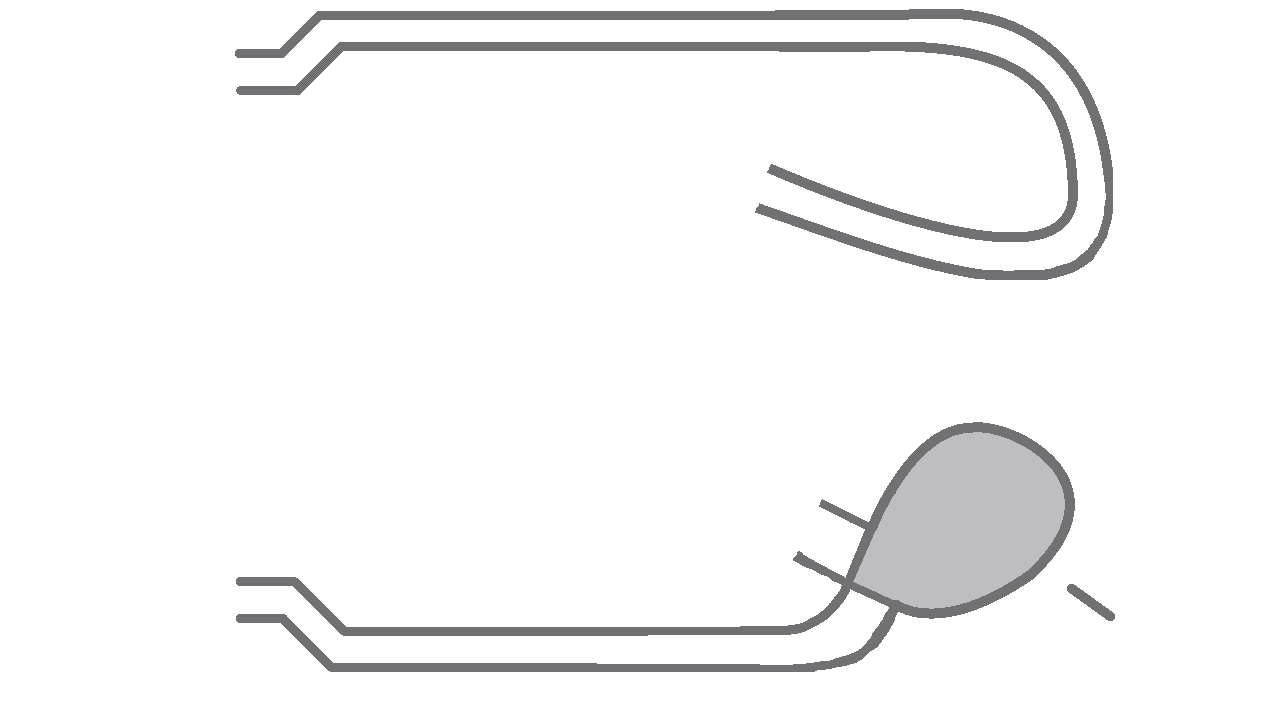
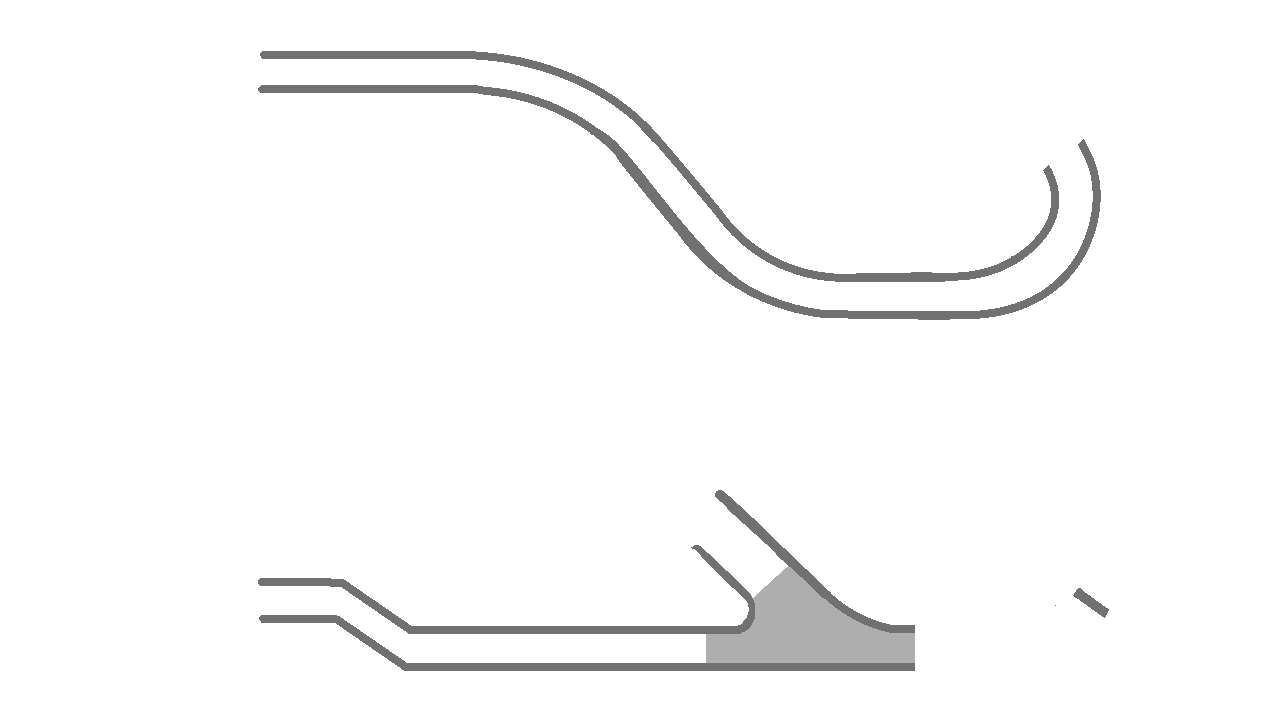
better table layout and graphics

diff --git a/games/pinball/source/layer.h b/games/pinball/source/layer.h
@@ -22,17 +22,17 @@ class Layer {
         int m_layerID;
 
         // Launch tube layer
-        vector<float> m_tubeLeft = {0.0, 527.8, 0.0, 672.0, 463.8, 671.7, 927.5, 671.4, 939.0, 669.7, 950.5, 667.9, 962.0, 665.4, 973.5, 662.8, 985.5, 658.8, 997.5, 654.8, 1009.0, 649.4, 1020.4, 643.9, 1031.5, 636.6, 1042.5, 629.2, 1051.3, 621.0, 1060.1, 612.7, 1066.3, 604.6, 1072.6, 596.5, 1075.3, 592.3, 1078.0, 588.0, 1074.6, 584.6, 1071.2, 583.0, 1070.2, 583.0, 1069.2, 583.0, 1066.9, 586.7, 1064.6, 590.5, 1058.4, 598.6, 1052.1, 606.8, 1044.3, 614.0, 1036.5, 621.2, 1026.1, 628.1, 1015.8, 635.1, 1005.4, 640.0, 995.1, 645.0, 981.8, 649.4, 968.5, 653.8, 955.5, 656.5, 942.5, 659.2, 933.4, 659.7, 924.3, 660.3, 918.4, 658.5, 912.5, 656.8, 909.5, 655.7, 906.5, 654.7, 900.9, 651.3, 895.2, 648.0, 888.6, 644.8, 883.5, 641.6, 877.5, 638.4, 871.5, 635.3, 864.0, 631.3, 856.5, 627.3, 851.5, 624.1, 846.6, 621.0, 837.6, 616.5, 830.3, 612.0, 823.6, 608.8, 818.5, 605.7, 809.3, 600.8, 800.1, 596.0, 797.1, 596.0, 794.1, 596.0, 791.6, 598.3, 789.0, 600.5, 786.0, 604.5, 783.0, 608.5, 778.0, 615.5, 772.9, 622.5, 767.0, 630.5, 761.0, 638.5, 757.4, 643.7, 753.7, 649.0, 752.2, 649.0, 750.7, 649.0, 740.6, 642.7, 730.5, 636.3, 725.5, 633.8, 720.5, 631.3, 711.6, 625.6, 702.6, 620.0, 689.6, 613.0, 678.4, 606.0, 675.7, 606.0, 673.1, 606.0, 670.5, 607.2, 667.9, 608.4, 654.9, 623.6, 642.0, 638.9, 635.8, 644.4, 629.6, 650.0, 623.1, 651.9, 616.5, 653.8, 611.2, 654.9, 605.9, 656.0, 562.2, 656.0, 518.5, 656.0, 502.8, 654.5, 487.0, 653.1, 480.3, 651.9, 473.5, 650.8, 468.0, 647.7, 462.5, 644.7, 455.8, 639.4, 449.2, 634.0, 446.1, 627.3, 443.0, 620.5, 442.1, 619.0, 441.3, 617.5, 408.4, 617.2, 375.5, 617.0, 356.0, 636.5, 336.5, 656.0, 181.8, 656.0, 27.0, 656.0, 27.0, 638.5, 27.0, 621.0, 55.4, 620.8, 83.7, 620.5, 42.4, 502.6, 1.1, 384.7, 0.5, 384.2, -3.32511795875e-13, 383.7, -3.32511795875e-13, 527.8};
-        vector<float> m_tubeRight = {0.1, 144.2, 0.2, 288.5, 1.5, 285.5, 2.8, 282.5, 42.3, 168.5, 81.8, 54.5, 82.5, 52.7, 83.2, 51.0, 55.1, 51.0, 27.0, 51.0, 27.0, 33.5, 27.0, 16.0, 182.0, 16.0, 337.0, 16.0, 358.0, 37.0, 379.0, 58.0, 391.0, 69.0, 401.9, 80.0, 452.7, 80.0, 503.5, 80.0, 511.0, 76.2, 518.5, 72.4, 529.6, 65.8, 540.7, 59.2, 565.1, 47.2, 589.5, 35.2, 596.0, 32.2, 602.5, 29.2, 615.0, 25.2, 627.5, 21.2, 635.0, 20.0, 642.5, 18.9, 647.0, 17.8, 651.5, 16.6, 801.5, 16.3, 951.5, 15.9, 962.5, 17.0, 973.5, 18.1, 984.5, 20.5, 995.5, 22.8, 1005.0, 26.0, 1014.5, 29.1, 1026.9, 35.1, 1039.2, 41.0, 1048.9, 47.3, 1058.5, 53.6, 1067.5, 61.2, 1076.5, 68.7, 1082.5, 75.1, 1088.6, 81.5, 1094.2, 88.5, 1099.8, 95.5, 1105.4, 104.2, 1111.1, 112.9, 1117.0, 125.2, 1122.9, 137.5, 1126.0, 147.0, 1129.2, 156.5, 1131.6, 167.8, 1134.0, 179.0, 1135.6, 194.8, 1137.1, 210.5, 1136.5, 366.0, 1135.9, 521.5, 1134.9, 531.0, 1134.0, 540.5, 1131.9, 550.9, 1129.8, 561.3, 1126.3, 571.9, 1122.9, 582.5, 1117.0, 594.8, 1111.1, 607.1, 1105.4, 615.8, 1099.8, 624.5, 1094.2, 631.5, 1088.6, 638.5, 1082.5, 644.9, 1076.5, 651.3, 1067.5, 658.8, 1058.5, 666.4, 1048.9, 672.7, 1039.2, 679.0, 1026.9, 684.9, 1014.5, 690.9, 1003.9, 694.3, 993.3, 697.8, 982.9, 699.9, 972.5, 702.0, 963.5, 703.0, 954.5, 704.0, 477.3, 704.0, 3.41060513165e-13, 704.0, 3.41060513165e-13, 712.0, 3.41060513165e-13, 720.0, 576.0, 720.0, 1152.0, 720.0, 1152.0, 360.0, 1152.0, 0.0, 576.0, 0.0, 4.54747350886e-13, 0.0, 0.1, 144.2};
+        vector<float> m_tubeLeft = {0.0, 527.8, 0.0, 672.0, 463.8, 671.7, 927.5, 671.4, 939.0, 669.7, 950.5, 667.9, 962.0, 665.4, 973.5, 662.8, 985.5, 658.8, 997.5, 654.8, 1009.0, 649.4, 1020.4, 643.9, 1031.5, 636.6, 1042.5, 629.2, 1051.3, 621.0, 1060.1, 612.7, 1066.3, 604.6, 1072.6, 596.5, 1075.3, 592.3, 1078.0, 588.0, 1074.6, 584.6, 1071.2, 583.0, 1070.2, 583.0, 1069.2, 583.0, 1066.9, 586.7, 1064.6, 590.5, 1058.4, 598.6, 1052.1, 606.8, 1044.3, 614.0, 1036.5, 621.2, 1026.1, 628.1, 1015.8, 635.1, 1005.4, 640.0, 995.1, 645.0, 981.8, 649.4, 968.5, 653.8, 955.9, 656.4, 943.3, 659.0, 940.6, 659.0, 938.0, 659.0, 938.0, 660.0, 938.0, 661.0, 926.5, 661.0, 915.0, 661.0, 915.0, 645.5, 915.0, 630.0, 920.3, 630.0, 925.6, 630.0, 935.1, 628.4, 944.5, 626.8, 954.0, 623.8, 963.5, 620.8, 973.7, 616.0, 983.9, 611.2, 992.7, 605.4, 1001.5, 599.7, 1007.5, 595.2, 1013.5, 590.6, 1025.3, 579.1, 1037.0, 567.7, 1037.0, 566.6, 1037.0, 565.5, 1018.1, 547.2, 999.1, 529.0, 994.3, 534.7, 989.5, 540.5, 983.5, 546.5, 977.5, 552.6, 942.0, 584.0, 906.5, 615.4, 896.5, 621.8, 886.5, 628.1, 868.5, 637.0, 850.5, 645.9, 840.5, 649.6, 830.5, 653.3, 819.0, 656.9, 807.5, 660.5, 706.2, 660.8, 604.9, 661.0, 589.0, 658.6, 573.0, 656.1, 561.3, 653.4, 549.5, 650.8, 538.0, 647.3, 526.5, 643.9, 519.0, 640.5, 511.5, 637.2, 496.0, 630.2, 480.5, 623.2, 470.5, 619.9, 460.5, 616.5, 418.3, 616.5, 376.0, 616.5, 356.3, 636.2, 336.5, 656.0, 181.7, 656.0, 27.0, 656.0, 27.0, 638.5, 27.0, 621.0, 55.4, 620.8, 83.7, 620.5, 42.4, 502.6, 1.1, 384.7, 0.5, 384.2, 2.35922392733e-13, 383.7, 2.35922392733e-13, 527.8};
+        vector<float> m_tubeRight = {0.1, 144.2, 0.2, 288.5, 1.5, 285.5, 2.8, 282.5, 42.3, 168.5, 81.8, 54.5, 82.5, 52.7, 83.2, 51.0, 55.1, 51.0, 27.0, 51.0, 27.0, 33.5, 27.0, 16.0, 182.0, 16.0, 337.0, 16.0, 337.0, 17.0, 337.0, 18.0, 364.0, 45.0, 391.0, 72.0, 397.9, 72.0, 404.9, 72.0, 411.2, 68.6, 417.5, 65.2, 429.5, 58.6, 441.5, 52.0, 456.5, 45.6, 471.5, 39.2, 485.0, 34.7, 498.5, 30.2, 513.0, 26.6, 527.5, 23.0, 540.6, 21.0, 553.6, 19.0, 567.6, 18.0, 581.5, 17.0, 603.3, 17.0, 625.0, 17.0, 625.0, 33.4, 625.0, 49.9, 623.3, 50.4, 621.5, 50.9, 614.0, 52.5, 606.5, 54.1, 603.5, 55.7, 600.5, 57.3, 598.0, 58.6, 595.5, 59.9, 588.1, 66.8, 580.6, 73.6, 584.7, 79.5, 588.8, 85.5, 591.9, 88.7, 594.9, 92.0, 596.5, 92.0, 598.1, 92.0, 615.3, 83.4, 632.5, 74.7, 645.5, 67.0, 658.5, 59.3, 683.0, 47.2, 707.5, 35.2, 714.0, 32.2, 720.5, 29.2, 733.0, 25.2, 745.5, 21.2, 753.0, 20.0, 760.5, 18.9, 765.0, 17.8, 769.5, 16.7, 860.5, 16.3, 951.5, 15.9, 962.5, 17.0, 973.5, 18.1, 984.5, 20.5, 995.5, 22.8, 1005.0, 26.0, 1014.5, 29.1, 1026.9, 35.1, 1039.2, 41.0, 1048.9, 47.3, 1058.5, 53.6, 1067.5, 61.2, 1076.5, 68.7, 1082.5, 75.1, 1088.6, 81.5, 1094.2, 88.5, 1099.8, 95.5, 1105.4, 104.2, 1111.1, 112.9, 1117.0, 125.2, 1122.9, 137.5, 1126.0, 147.0, 1129.2, 156.5, 1131.6, 167.8, 1134.0, 179.0, 1135.6, 194.8, 1137.1, 210.5, 1136.5, 366.0, 1135.9, 521.5, 1134.9, 531.0, 1134.0, 540.5, 1131.9, 550.9, 1129.8, 561.3, 1126.3, 571.9, 1122.9, 582.5, 1117.0, 594.8, 1111.1, 607.1, 1105.4, 615.8, 1099.8, 624.5, 1094.2, 631.5, 1088.6, 638.5, 1082.5, 644.9, 1076.5, 651.3, 1067.5, 658.8, 1058.5, 666.4, 1048.9, 672.7, 1039.2, 679.0, 1026.9, 684.9, 1014.5, 690.9, 1003.9, 694.3, 993.3, 697.8, 982.9, 699.9, 972.5, 702.0, 963.5, 703.0, 954.5, 704.0, 477.3, 704.0, 5.68434188608e-13, 704.0, 5.68434188608e-13, 712.0, 5.68434188608e-13, 720.0, 576.0, 720.0, 1152.0, 720.0, 1152.0, 360.0, 1152.0, -1.13686837722e-13, 576.0, -1.13686837722e-13, 4.54747350886e-13, -1.13686837722e-13, 0.1, 144.2};
         vector<vector<float>> m_launchTubeLayer = {
             m_tubeLeft, m_tubeRight
         };
 
         // Main table layer
         vector<float> m_launchExitLock = {1068.0, 585.4, 1066.8, 586.9, 1067.2, 589.2, 1067.5, 591.5, 1087.9, 606.2, 1108.4, 621.0, 1110.6, 621.0, 1112.8, 621.0, 1114.0, 619.6, 1115.2, 618.1, 1114.8, 615.8, 1114.5, 613.5, 1094.1, 598.8, 1073.6, 584.0, 1071.4, 584.0, 1069.2, 584.0, 1068.0, 585.4};
-        vector<float> m_upperWall = {759.0, 53.1, 749.5, 53.9, 741.5, 55.0, 733.5, 56.0, 724.0, 57.6, 714.5, 59.1, 707.5, 60.6, 700.5, 62.1, 696.5, 63.0, 692.5, 63.9, 683.0, 65.5, 673.5, 67.2, 667.0, 69.2, 660.5, 71.1, 649.5, 74.6, 638.5, 78.2, 634.0, 80.2, 629.5, 82.2, 607.3, 93.1, 585.2, 104.0, 584.2, 104.0, 580.9, 105.8, 578.5, 107.7, 574.0, 110.0, 569.5, 112.4, 564.4, 115.7, 559.2, 119.0, 558.6, 120.6, 558.0, 122.2, 558.0, 125.4, 558.0, 128.6, 560.8, 133.1, 563.6, 137.5, 567.0, 145.0, 570.4, 152.5, 573.7, 158.2, 577.1, 164.0, 579.5, 164.6, 581.9, 165.2, 588.2, 161.7, 594.5, 158.2, 601.5, 154.8, 608.5, 151.3, 611.0, 150.1, 613.5, 149.0, 616.6, 147.0, 619.7, 145.0, 629.1, 143.5, 638.5, 142.0, 646.4, 140.9, 654.2, 139.8, 669.9, 140.3, 685.5, 140.7, 694.4, 142.4, 703.3, 144.2, 718.9, 149.4, 734.5, 154.7, 740.0, 157.5, 745.5, 160.3, 750.5, 163.6, 755.5, 166.8, 762.0, 170.4, 768.5, 174.0, 775.5, 177.5, 782.5, 181.0, 783.9, 183.1, 785.2, 185.3, 783.5, 188.9, 781.7, 192.5, 779.6, 197.0, 777.5, 201.5, 775.6, 204.1, 773.8, 206.8, 767.1, 204.9, 760.5, 202.9, 749.1, 200.0, 737.8, 197.0, 723.6, 197.1, 709.5, 197.1, 703.0, 198.0, 696.5, 198.9, 688.1, 201.3, 679.7, 203.6, 673.5, 208.7, 667.3, 213.8, 661.2, 220.9, 655.1, 227.9, 650.1, 235.3, 645.1, 242.8, 640.1, 252.2, 635.0, 261.7, 635.0, 264.6, 635.0, 267.5, 661.3, 301.5, 687.5, 335.5, 690.7, 335.8, 693.9, 336.1, 710.8, 327.6, 727.7, 319.0, 738.2, 308.2, 748.6, 297.4, 753.5, 290.4, 758.3, 283.5, 764.4, 275.0, 770.5, 266.5, 778.3, 251.0, 786.2, 235.5, 794.0, 214.5, 801.8, 193.5, 802.5, 191.0, 803.2, 188.5, 809.5, 175.0, 815.8, 161.5, 817.3, 158.0, 818.8, 154.5, 820.9, 148.0, 823.0, 141.5, 825.7, 134.5, 828.3, 127.5, 830.0, 125.0, 831.7, 122.5, 833.0, 118.5, 834.3, 114.5, 837.3, 108.0, 840.3, 101.5, 842.8, 98.0, 845.4, 94.5, 851.7, 87.4, 858.0, 80.2, 865.5, 75.1, 873.0, 70.0, 880.8, 66.8, 888.5, 63.6, 922.3, 63.2, 956.1, 62.9, 967.1, 64.4, 978.0, 65.9, 985.2, 68.1, 992.5, 70.3, 993.5, 71.0, 994.5, 71.7, 1002.2, 74.3, 1009.8, 77.0, 1015.7, 79.8, 1021.5, 82.5, 1029.1, 88.3, 1036.7, 94.0, 1040.7, 97.9, 1044.7, 101.7, 1049.4, 108.9, 1054.0, 116.1, 1054.0, 117.3, 1054.0, 118.5, 1056.1, 121.9, 1058.2, 125.3, 1059.5, 131.4, 1060.8, 137.5, 1061.5, 139.2, 1062.2, 141.0, 1064.4, 141.0, 1066.6, 141.0, 1068.5, 139.6, 1070.4, 138.3, 1069.1, 132.4, 1067.8, 126.5, 1064.7, 119.1, 1061.7, 111.7, 1056.9, 104.6, 1052.2, 97.5, 1044.3, 89.9, 1036.5, 82.3, 1030.5, 78.3, 1024.5, 74.3, 1016.4, 70.2, 1008.3, 66.2, 997.8, 62.6, 987.2, 59.1, 977.4, 57.1, 967.5, 55.1, 959.5, 53.9, 951.5, 52.7, 860.0, 52.5, 768.5, 52.2, 759.0, 53.1};
-        vector<float> m_upperWall2 = {693.8, 440.5, 692.7, 443.1, 693.6, 443.9, 694.5, 444.7, 722.5, 459.0, 750.5, 473.3, 751.5, 474.0, 752.5, 474.7, 779.5, 488.5, 806.5, 502.3, 809.7, 504.9, 812.9, 507.5, 814.1, 510.3, 815.3, 513.1, 814.6, 517.7, 814.0, 522.4, 813.1, 522.9, 812.2, 523.5, 811.5, 527.3, 810.7, 531.2, 809.5, 531.6, 808.2, 532.1, 807.6, 535.6, 806.9, 539.0, 805.5, 539.0, 804.1, 539.0, 803.5, 540.8, 803.0, 542.7, 800.2, 544.0, 797.5, 545.4, 794.3, 545.7, 791.0, 546.1, 773.5, 537.1, 756.0, 528.0, 754.8, 528.0, 753.5, 527.9, 749.6, 525.0, 745.6, 522.0, 743.9, 522.0, 742.2, 522.0, 741.0, 520.5, 739.8, 519.0, 738.7, 519.0, 737.7, 519.0, 732.8, 516.0, 728.0, 513.0, 726.9, 513.0, 725.9, 513.0, 724.7, 511.9, 723.5, 510.8, 707.5, 502.4, 691.5, 494.0, 681.2, 488.7, 670.9, 483.5, 669.4, 485.5, 667.9, 487.5, 668.2, 490.0, 668.5, 492.5, 698.0, 508.3, 727.5, 524.1, 762.0, 542.5, 796.5, 561.0, 807.5, 564.9, 818.5, 568.8, 837.5, 579.0, 856.5, 589.2, 874.0, 598.6, 891.5, 607.9, 901.3, 612.0, 911.1, 616.1, 918.8, 618.2, 926.5, 620.3, 939.5, 620.3, 952.5, 620.3, 962.0, 617.7, 971.5, 615.2, 980.1, 611.6, 988.6, 608.0, 999.6, 601.9, 1010.5, 595.8, 1020.5, 589.2, 1030.5, 582.5, 1040.8, 572.6, 1051.1, 562.6, 1055.3, 555.6, 1059.4, 548.5, 1061.3, 544.7, 1063.1, 540.9, 1068.1, 526.2, 1073.0, 511.5, 1073.7, 501.4, 1074.3, 491.3, 1073.6, 488.6, 1073.0, 486.0, 1071.0, 486.0, 1069.0, 486.0, 1068.0, 488.6, 1067.0, 491.1, 1067.0, 495.3, 1067.0, 499.5, 1064.6, 509.5, 1062.1, 519.5, 1060.1, 525.4, 1058.0, 531.3, 1057.1, 532.4, 1056.3, 533.5, 1054.8, 538.1, 1053.2, 542.6, 1049.9, 547.4, 1046.5, 552.1, 1042.5, 557.3, 1038.4, 562.5, 1030.0, 568.8, 1021.5, 575.2, 1016.5, 579.4, 1011.5, 583.6, 1007.9, 585.8, 1004.3, 588.0, 1002.9, 588.0, 1001.5, 588.0, 998.0, 590.8, 994.5, 593.7, 991.2, 594.8, 987.9, 595.9, 985.2, 597.8, 982.5, 599.7, 979.0, 601.0, 975.5, 602.3, 974.0, 603.6, 972.5, 604.9, 964.5, 607.1, 956.5, 609.2, 952.0, 610.1, 947.5, 611.0, 940.5, 611.2, 933.5, 611.4, 927.5, 609.8, 921.5, 608.2, 910.5, 604.2, 899.5, 600.3, 896.8, 599.2, 894.1, 598.1, 887.3, 593.3, 880.5, 588.6, 878.0, 586.3, 875.5, 584.0, 865.7, 576.1, 857.4, 568.1, 853.3, 560.8, 849.2, 553.5, 845.7, 543.0, 842.3, 532.5, 838.5, 520.5, 834.8, 508.5, 833.4, 506.2, 831.9, 504.0, 766.0, 471.0, 700.0, 438.0, 697.5, 438.0, 695.0, 438.0, 693.8, 440.5};
-        vector<float> m_upperWall3 = {968.9, 374.8, 966.3, 376.5, 931.2, 404.4, 896.0, 432.3, 895.5, 434.1, 894.9, 435.9, 896.0, 438.0, 897.1, 440.0, 899.3, 440.5, 901.5, 441.1, 951.9, 433.0, 1002.2, 425.0, 1004.4, 423.4, 1006.0, 421.9, 1006.0, 420.4, 1006.0, 419.0, 991.4, 397.2, 976.8, 375.5, 975.2, 374.2, 973.6, 373.0, 972.6, 373.0, 971.5, 373.0, 968.9, 374.8};
+        vector<float> m_upperWall = {786.0, 60.6, 777.5, 62.1, 765.8, 66.0, 754.2, 69.9, 744.5, 74.6, 734.9, 79.2, 723.2, 87.1, 711.5, 95.0, 708.1, 98.0, 704.6, 101.0, 707.4, 103.9, 710.3, 106.9, 714.7, 103.1, 719.0, 99.2, 727.8, 93.4, 736.5, 87.6, 746.8, 82.4, 757.1, 77.2, 767.8, 73.7, 778.5, 70.1, 788.0, 68.5, 797.5, 66.9, 881.5, 67.3, 965.5, 67.6, 977.6, 70.3, 989.7, 73.0, 998.6, 76.1, 1007.5, 79.2, 1015.7, 83.1, 1023.8, 87.0, 1032.7, 92.9, 1041.6, 98.9, 1048.7, 105.4, 1055.7, 111.9, 1061.3, 118.8, 1067.0, 125.7, 1068.8, 129.0, 1070.5, 130.9, 1072.4, 134.5, 1074.4, 138.1, 1073.4, 138.8, 1072.4, 139.5, 1064.4, 145.6, 1056.5, 151.7, 1050.7, 155.5, 1045.0, 159.3, 1039.7, 152.0, 1035.1, 145.5, 1031.3, 141.5, 1027.4, 137.5, 1021.3, 132.0, 1015.2, 126.5, 1007.3, 121.8, 999.4, 117.1, 991.6, 114.0, 983.9, 110.9, 976.4, 109.0, 968.9, 107.1, 958.9, 106.0, 948.8, 105.0, 920.1, 105.0, 891.4, 105.0, 883.2, 106.0, 875.0, 107.1, 866.3, 109.6, 857.5, 112.1, 849.2, 116.0, 840.8, 120.0, 833.7, 124.7, 826.6, 129.5, 817.8, 137.9, 809.0, 146.3, 804.0, 152.5, 799.1, 158.7, 794.5, 166.0, 790.0, 173.4, 790.0, 175.2, 790.0, 177.0, 792.6, 178.2, 795.3, 179.4, 796.6, 177.5, 798.0, 175.5, 803.9, 166.5, 809.8, 157.5, 817.5, 149.3, 825.1, 141.1, 833.1, 135.1, 841.1, 129.1, 851.3, 124.0, 861.5, 119.0, 871.5, 116.3, 881.5, 113.7, 914.0, 113.2, 946.5, 112.8, 957.1, 113.9, 967.8, 115.0, 975.6, 117.1, 983.5, 119.1, 991.1, 122.4, 998.7, 125.7, 1005.7, 130.3, 1012.7, 134.8, 1019.8, 141.4, 1026.8, 148.0, 1030.8, 153.3, 1034.9, 158.5, 1038.2, 164.1, 1041.6, 169.8, 1044.8, 168.5, 1047.9, 167.1, 1054.2, 162.9, 1060.5, 158.7, 1072.3, 149.7, 1084.0, 140.7, 1084.0, 139.5, 1084.0, 138.3, 1079.1, 130.2, 1074.3, 122.1, 1069.2, 115.8, 1064.2, 109.5, 1055.4, 101.0, 1046.5, 92.4, 1037.5, 86.4, 1028.5, 80.4, 1020.0, 76.3, 1011.5, 72.2, 1001.1, 68.6, 990.6, 64.9, 978.6, 62.3, 966.5, 59.6, 880.5, 59.4, 794.5, 59.1, 786.0, 60.6};
+        vector<float> m_upperWall2 = {764.0, 450.1, 735.5, 476.1, 725.8, 485.1, 716.0, 494.2, 716.0, 495.4, 716.0, 496.7, 767.3, 545.2, 818.5, 593.6, 819.9, 596.3, 821.3, 598.9, 820.0, 600.5, 818.8, 602.0, 817.3, 602.0, 815.8, 602.0, 813.2, 603.9, 810.5, 605.7, 800.5, 608.8, 790.5, 612.0, 780.8, 613.0, 771.1, 614.0, 763.0, 614.0, 755.0, 614.0, 755.0, 609.0, 755.0, 603.9, 753.5, 600.5, 752.1, 597.0, 750.5, 596.4, 748.9, 595.7, 745.5, 591.3, 742.1, 586.9, 720.6, 565.9, 699.1, 545.0, 696.8, 545.0, 694.5, 545.0, 680.7, 556.1, 667.0, 567.2, 667.0, 569.5, 667.0, 571.8, 678.3, 589.3, 689.5, 606.9, 695.3, 616.0, 701.1, 625.2, 741.3, 624.7, 781.5, 624.2, 793.0, 622.1, 804.5, 620.0, 816.0, 616.4, 827.5, 612.9, 841.5, 606.1, 855.5, 599.2, 863.5, 593.3, 871.5, 587.3, 917.0, 545.6, 962.5, 503.8, 966.8, 499.5, 971.0, 495.1, 971.0, 492.9, 971.0, 490.7, 957.2, 476.6, 943.5, 462.5, 931.9, 450.3, 920.3, 438.2, 917.1, 436.5, 913.9, 434.9, 907.2, 439.4, 900.5, 443.9, 894.4, 445.9, 888.3, 447.9, 881.9, 448.6, 875.5, 449.2, 868.0, 448.1, 860.5, 446.9, 851.9, 444.0, 843.2, 441.1, 827.6, 434.0, 811.9, 427.0, 806.3, 425.5, 800.6, 424.0, 796.5, 424.0, 792.5, 424.0, 764.0, 450.1};
+        vector<float> m_upperWall3 = {790.9, 256.3, 788.3, 257.5, 788.8, 259.0, 789.3, 260.5, 793.7, 269.3, 798.1, 278.2, 802.2, 284.3, 806.3, 290.4, 813.4, 297.6, 820.5, 304.7, 828.3, 309.8, 836.1, 314.9, 844.3, 318.0, 852.5, 321.2, 859.0, 322.6, 865.5, 324.0, 921.8, 324.0, 978.1, 324.0, 987.8, 325.0, 997.5, 326.1, 1007.9, 328.6, 1018.2, 331.0, 1025.2, 333.9, 1032.2, 336.9, 1039.1, 341.0, 1046.1, 345.1, 1052.6, 351.3, 1059.2, 357.4, 1063.6, 363.6, 1068.0, 369.8, 1071.5, 377.3, 1075.0, 384.9, 1077.0, 393.2, 1079.0, 401.5, 1079.0, 405.2, 1079.0, 409.0, 1081.4, 409.0, 1083.8, 409.0, 1085.4, 408.4, 1087.0, 407.8, 1087.0, 404.0, 1087.0, 400.3, 1084.6, 390.9, 1082.2, 381.5, 1079.3, 374.9, 1076.3, 368.3, 1072.5, 362.4, 1068.7, 356.5, 1061.1, 348.7, 1053.5, 340.9, 1046.5, 336.3, 1039.6, 331.7, 1032.4, 328.4, 1025.3, 325.1, 1016.4, 322.5, 1007.6, 319.9, 998.5, 318.3, 989.5, 316.7, 925.0, 316.1, 860.5, 315.5, 852.7, 312.7, 844.8, 310.0, 840.7, 307.8, 836.5, 305.7, 830.9, 301.9, 825.3, 298.1, 819.0, 291.8, 812.6, 285.5, 807.2, 277.1, 801.7, 268.7, 798.9, 262.1, 796.1, 255.5, 794.8, 255.3, 793.5, 255.1, 790.9, 256.3};
         vector<float> m_leftSlide = {125.0, 51.1, 122.5, 52.1, 119.7, 54.8, 116.9, 57.5, 114.5, 62.1, 112.2, 66.7, 108.9, 76.6, 105.7, 86.5, 104.4, 88.5, 103.2, 90.5, 101.5, 96.5, 99.8, 102.5, 99.5, 104.2, 99.1, 105.8, 96.4, 114.2, 93.7, 122.5, 92.8, 123.7, 91.9, 124.8, 89.5, 132.2, 87.2, 139.5, 83.5, 149.0, 79.9, 158.5, 77.5, 165.0, 75.1, 171.5, 72.6, 178.5, 70.0, 185.5, 68.8, 187.5, 67.7, 189.5, 64.3, 198.0, 61.0, 206.4, 61.8, 207.2, 62.6, 208.0, 67.5, 206.3, 72.4, 204.7, 76.6, 205.8, 80.8, 206.9, 84.6, 209.5, 88.3, 212.0, 91.5, 212.0, 94.7, 212.0, 96.7, 209.7, 98.8, 207.5, 100.8, 202.5, 102.9, 197.5, 106.5, 188.0, 110.0, 178.5, 112.5, 172.0, 115.0, 165.5, 118.5, 156.0, 122.0, 146.5, 124.5, 140.0, 127.0, 133.5, 130.5, 124.3, 134.0, 115.0, 136.1, 108.3, 138.2, 101.5, 142.2, 89.5, 146.3, 77.5, 149.0, 71.4, 151.7, 65.3, 154.1, 63.1, 156.5, 60.8, 160.0, 59.1, 163.5, 57.5, 223.4, 57.0, 283.3, 56.5, 284.3, 54.8, 285.4, 53.2, 284.1, 51.6, 282.8, 50.0, 205.1, 50.1, 127.5, 50.1, 125.0, 51.1};
         vector<float> m_rightSlide = {85.2, 461.4, 82.0, 464.8, 77.4, 466.0, 72.8, 467.3, 67.7, 465.7, 62.6, 464.0, 61.8, 464.8, 61.0, 465.6, 64.3, 474.0, 67.7, 482.5, 68.8, 484.5, 70.0, 486.5, 72.6, 493.5, 75.1, 500.5, 77.5, 507.0, 79.9, 513.5, 83.5, 523.0, 87.2, 532.5, 89.5, 539.8, 91.9, 547.2, 92.8, 548.3, 93.7, 549.5, 96.4, 557.8, 99.1, 566.2, 99.5, 567.8, 99.8, 569.5, 101.5, 575.5, 103.2, 581.5, 104.4, 583.5, 105.7, 585.5, 108.9, 595.4, 112.2, 605.3, 114.5, 609.9, 116.9, 614.5, 119.7, 617.2, 122.5, 619.9, 125.3, 620.9, 128.1, 622.0, 205.4, 622.0, 282.8, 622.0, 284.1, 620.4, 285.4, 618.8, 284.3, 617.2, 283.3, 615.5, 223.4, 615.0, 163.5, 614.5, 160.0, 612.9, 156.5, 611.2, 154.1, 608.9, 151.7, 606.7, 149.0, 600.6, 146.3, 594.5, 142.2, 582.5, 138.2, 570.5, 136.1, 563.7, 134.0, 557.0, 130.5, 547.7, 127.0, 538.5, 124.5, 532.0, 122.0, 525.5, 118.5, 516.0, 115.0, 506.5, 112.5, 500.0, 110.0, 493.5, 106.5, 484.0, 102.9, 474.5, 99.6, 466.5, 96.3, 458.5, 92.4, 458.2, 88.5, 458.0, 85.2, 461.4};
         vector<float> m_leftSlideLine = {176.9, 88.6, 175.6, 90.2, 176.7, 91.8, 177.7, 93.5, 217.5, 93.5, 257.3, 93.5, 258.3, 91.8, 259.4, 90.2, 258.1, 88.6, 256.8, 87.0, 217.5, 87.0, 178.2, 87.0, 176.9, 88.6};
@@ -40,14 +40,14 @@ class Layer {
         vector<float> m_leftBumper = {169.9, 125.0, 168.3, 126.0, 167.0, 129.2, 165.8, 132.5, 164.0, 136.5, 162.2, 140.5, 159.5, 147.0, 156.7, 153.5, 155.0, 157.5, 153.2, 161.5, 150.6, 168.0, 147.9, 174.5, 146.3, 177.4, 144.8, 180.2, 144.6, 185.6, 144.5, 190.9, 145.8, 192.2, 147.1, 193.5, 151.3, 193.5, 155.5, 193.5, 163.0, 189.0, 170.5, 184.5, 173.0, 183.1, 175.5, 181.7, 179.0, 179.8, 182.5, 177.9, 185.5, 176.1, 188.5, 174.3, 193.0, 171.6, 197.5, 168.9, 200.3, 167.9, 203.0, 166.8, 205.8, 164.1, 208.5, 163.1, 213.5, 160.0, 218.5, 156.9, 221.3, 155.9, 224.0, 154.8, 226.3, 152.5, 228.5, 151.8, 231.5, 149.5, 234.5, 147.3, 236.7, 146.6, 238.8, 145.9, 240.0, 144.5, 241.2, 143.0, 242.7, 143.0, 244.1, 143.0, 246.2, 141.0, 248.4, 139.0, 249.9, 139.0, 251.4, 139.0, 254.2, 136.3, 257.0, 133.6, 257.0, 131.0, 257.0, 128.3, 254.7, 126.2, 252.4, 124.0, 211.9, 124.0, 171.5, 124.1, 169.9, 125.0};
         vector<float> m_rightBumper = {147.4, 478.9, 145.3, 479.8, 144.6, 482.5, 143.9, 485.1, 144.6, 488.8, 145.3, 492.5, 146.6, 495.0, 147.9, 497.5, 150.6, 504.0, 153.2, 510.5, 155.0, 514.5, 156.7, 518.5, 159.5, 525.0, 162.2, 531.5, 164.0, 535.5, 165.8, 539.5, 167.0, 542.8, 168.3, 546.1, 170.1, 547.0, 171.9, 548.0, 212.3, 548.0, 252.7, 548.0, 254.8, 545.7, 257.0, 543.4, 257.0, 541.0, 257.0, 538.6, 254.3, 535.8, 251.6, 533.0, 250.0, 533.0, 248.4, 533.0, 246.2, 531.0, 244.1, 529.0, 242.7, 529.0, 241.2, 529.0, 240.0, 527.5, 238.8, 526.1, 236.7, 525.4, 234.5, 524.7, 231.5, 522.5, 228.5, 520.2, 226.3, 519.5, 224.0, 518.9, 221.3, 516.1, 218.5, 515.1, 213.5, 512.0, 208.5, 508.9, 205.8, 507.9, 203.0, 506.8, 200.3, 504.1, 197.5, 503.1, 193.0, 500.4, 188.5, 497.7, 185.5, 495.9, 182.5, 494.1, 179.0, 492.2, 175.5, 490.3, 173.0, 488.9, 170.5, 487.5, 163.4, 483.2, 156.2, 478.9, 152.9, 478.5, 149.5, 478.0, 147.4, 478.9};
         vector<vector<float>> m_layer1ShapeData = {
-            m_tubeRight, m_tubeLeft, m_launchExitLock, m_upperWall, m_upperWall2, m_upperWall3, m_leftSlide, m_rightSlide, m_rightSlideLine, m_leftSlideLine, m_leftBumper, m_rightBumper
+            m_tubeRight, m_tubeLeft, m_launchExitLock, m_upperWall, m_upperWall2, /*m_upperWall3,*/ m_leftSlide, m_rightSlide, m_rightSlideLine, m_leftSlideLine, m_leftBumper, m_rightBumper
         };
 
         // Layer 2 shapes.
-        vector<float> m_leftInnerRail = {317.5, 64.0, 295.5, 86.0, 267.3, 86.0, 239.1, 86.0, 237.6, 87.6, 236.0, 89.1, 236.0, 90.5, 236.0, 91.9, 237.6, 93.4, 239.1, 95.0, 269.3, 95.0, 299.5, 95.0, 321.5, 72.9, 343.5, 50.9, 620.5, 51.1, 897.5, 51.3, 915.5, 52.1, 933.5, 53.0, 946.0, 54.6, 958.5, 56.1, 969.9, 58.6, 981.3, 61.2, 991.4, 64.7, 1001.5, 68.2, 1009.7, 72.5, 1018.0, 76.9, 1023.9, 81.4, 1029.8, 85.9, 1035.4, 91.7, 1041.1, 97.5, 1045.4, 104.0, 1049.8, 110.5, 1052.9, 116.8, 1056.1, 123.2, 1059.0, 132.0, 1061.9, 140.9, 1063.9, 151.2, 1065.9, 161.5, 1067.1, 174.9, 1068.3, 188.4, 1067.8, 196.5, 1067.2, 204.7, 1065.2, 209.3, 1063.2, 213.9, 1059.1, 218.2, 1055.1, 222.6, 1049.6, 225.3, 1044.1, 228.0, 1037.8, 229.8, 1031.5, 231.5, 1008.5, 231.4, 985.5, 231.3, 970.6, 228.7, 955.6, 226.0, 944.6, 223.4, 933.5, 220.8, 917.0, 216.3, 900.5, 211.9, 874.0, 203.0, 847.5, 194.2, 827.5, 186.5, 807.5, 178.8, 789.5, 171.3, 771.5, 163.8, 766.3, 161.4, 761.2, 158.9, 760.6, 157.5, 760.1, 156.0, 753.5, 153.0, 746.9, 150.0, 739.5, 147.5, 733.3, 145.1, 713.9, 139.5, 694.5, 133.9, 691.5, 134.2, 688.5, 134.5, 688.2, 137.1, 687.9, 139.7, 690.3, 141.3, 692.7, 142.9, 706.8, 146.4, 720.9, 149.9, 723.8, 151.4, 726.8, 152.9, 733.1, 155.3, 739.5, 157.7, 746.5, 161.1, 753.5, 164.4, 756.0, 166.7, 758.6, 169.0, 768.0, 173.1, 777.5, 177.2, 794.0, 184.0, 810.5, 190.7, 827.0, 197.0, 843.5, 203.2, 860.0, 209.0, 876.5, 214.8, 895.0, 220.3, 913.5, 225.9, 927.5, 229.5, 941.5, 233.1, 956.2, 236.0, 970.9, 239.0, 983.2, 240.5, 995.4, 242.0, 1011.5, 242.0, 1027.5, 242.0, 1036.8, 240.1, 1046.1, 238.1, 1053.5, 234.5, 1060.9, 230.8, 1066.0, 225.4, 1071.1, 220.0, 1073.5, 214.7, 1076.0, 209.4, 1077.0, 204.0, 1078.0, 198.7, 1078.0, 191.6, 1078.0, 184.5, 1077.0, 173.0, 1075.9, 161.5, 1073.9, 150.5, 1071.9, 139.6, 1068.8, 130.0, 1065.8, 120.5, 1061.3, 111.5, 1056.8, 102.5, 1052.3, 96.2, 1047.8, 89.8, 1042.1, 84.1, 1036.5, 78.4, 1029.7, 73.2, 1022.8, 68.1, 1013.2, 63.2, 1003.5, 58.2, 996.2, 55.6, 988.9, 53.0, 979.1, 50.5, 969.3, 48.0, 956.9, 46.1, 944.5, 44.1, 933.0, 43.0, 921.5, 42.0, 630.5, 42.0, 339.5, 42.0, 317.5, 64.0};
-        vector<float> m_leftOuterRail = {833.5, 10.1, 757.5, 10.7, 537.5, 10.9, 317.5, 11.0, 298.5, 30.0, 279.5, 49.0, 258.5, 49.0, 237.4, 49.0, 236.2, 50.2, 235.0, 51.4, 235.0, 53.5, 235.0, 55.6, 236.2, 56.8, 237.4, 58.0, 260.4, 58.0, 283.5, 58.0, 302.5, 39.1, 321.5, 20.1, 645.5, 19.9, 969.5, 19.8, 980.0, 21.9, 990.5, 24.1, 1000.7, 27.5, 1010.8, 30.9, 1018.7, 34.9, 1026.6, 38.8, 1036.1, 45.1, 1045.5, 51.4, 1055.0, 61.0, 1064.5, 70.5, 1070.8, 79.8, 1077.2, 89.1, 1082.5, 99.8, 1087.8, 110.5, 1091.3, 120.6, 1094.8, 130.7, 1097.5, 141.4, 1100.1, 152.2, 1102.6, 168.7, 1105.0, 185.2, 1105.2, 193.4, 1105.4, 201.5, 1104.3, 210.0, 1103.1, 218.5, 1100.5, 227.0, 1097.8, 235.5, 1096.1, 237.5, 1094.4, 239.5, 1091.0, 244.5, 1087.6, 249.5, 1081.2, 254.9, 1074.7, 260.3, 1070.1, 262.1, 1065.5, 263.9, 1057.0, 266.6, 1048.5, 269.3, 1028.0, 270.0, 1007.5, 270.8, 992.5, 270.0, 977.5, 269.2, 962.0, 266.1, 946.5, 262.9, 930.8, 259.0, 915.1, 255.0, 899.7, 250.5, 884.3, 246.1, 865.4, 239.9, 846.5, 233.8, 796.5, 216.5, 746.5, 199.2, 737.9, 198.1, 729.4, 197.0, 718.4, 197.1, 707.5, 197.2, 702.0, 198.0, 696.5, 198.8, 692.0, 200.0, 687.6, 201.1, 686.2, 202.2, 684.9, 203.3, 685.2, 205.9, 685.5, 208.5, 690.2, 208.8, 694.9, 209.1, 698.2, 207.3, 701.5, 205.6, 713.5, 205.8, 725.5, 206.1, 734.5, 207.6, 743.5, 209.0, 767.0, 216.9, 790.5, 224.8, 822.5, 236.0, 854.5, 247.1, 875.0, 253.5, 895.5, 259.8, 908.5, 263.5, 921.5, 267.2, 935.5, 270.5, 949.5, 273.8, 963.0, 276.6, 976.5, 279.3, 1011.0, 279.8, 1045.5, 280.2, 1055.6, 277.7, 1065.6, 275.1, 1071.2, 273.0, 1076.8, 270.9, 1084.6, 265.7, 1092.4, 260.5, 1099.6, 249.0, 1106.8, 237.5, 1108.5, 231.0, 1110.3, 224.5, 1111.6, 218.5, 1113.0, 212.5, 1113.0, 190.9, 1113.0, 169.3, 1110.9, 157.0, 1108.8, 144.8, 1105.5, 132.6, 1102.2, 120.4, 1098.4, 111.0, 1094.7, 101.5, 1090.9, 93.9, 1087.1, 86.3, 1079.9, 75.4, 1072.6, 64.5, 1062.0, 54.0, 1051.5, 43.5, 1042.5, 37.4, 1033.5, 31.2, 1024.4, 26.7, 1015.4, 22.1, 1007.4, 19.2, 999.5, 16.3, 990.7, 14.1, 981.9, 11.9, 971.7, 10.5, 961.5, 9.0, 935.5, 9.2, 909.5, 9.4, 833.5, 10.1};
-        vector<float> m_rightOuterRail = {966.0, 423.0, 958.5, 424.0, 951.0, 426.6, 943.5, 429.2, 937.5, 432.7, 931.5, 436.2, 925.5, 441.0, 919.5, 445.8, 913.9, 451.7, 908.3, 457.5, 903.4, 463.5, 898.6, 469.5, 890.8, 481.5, 882.9, 493.5, 875.8, 507.7, 868.7, 522.0, 794.5, 485.4, 721.5, 448.9, 719.5, 449.2, 717.5, 449.5, 717.2, 452.2, 716.9, 455.0, 720.1, 456.9, 723.2, 458.8, 796.5, 495.4, 869.7, 532.0, 871.9, 532.0, 874.1, 532.0, 874.6, 530.5, 875.2, 529.0, 875.9, 529.4, 876.6, 529.9, 879.5, 523.2, 882.3, 516.5, 887.7, 506.2, 893.2, 496.0, 894.3, 494.7, 895.5, 493.5, 897.3, 490.0, 899.1, 486.5, 905.3, 477.7, 911.6, 469.0, 918.0, 461.9, 924.4, 454.7, 931.8, 448.8, 939.3, 442.9, 946.0, 439.5, 952.7, 436.1, 959.1, 434.4, 965.5, 432.7, 977.0, 432.7, 988.5, 432.7, 997.5, 435.4, 1006.5, 438.0, 1017.5, 443.4, 1028.5, 448.8, 1035.0, 453.8, 1041.5, 458.7, 1048.1, 465.8, 1054.8, 472.8, 1058.8, 480.8, 1062.8, 488.8, 1064.0, 496.0, 1065.2, 503.3, 1064.5, 509.3, 1063.9, 515.3, 1061.5, 522.9, 1059.0, 530.5, 1055.2, 537.1, 1051.3, 543.8, 1047.6, 548.6, 1043.9, 553.5, 1037.3, 560.8, 1030.7, 568.1, 1025.6, 571.9, 1020.5, 575.6, 1010.4, 581.8, 1000.4, 588.0, 988.9, 593.4, 977.5, 598.8, 968.3, 601.8, 959.2, 604.9, 950.3, 606.6, 941.5, 608.2, 930.5, 608.2, 919.5, 608.1, 913.5, 606.5, 907.5, 604.9, 902.4, 602.5, 897.3, 600.0, 894.9, 600.0, 892.5, 600.0, 889.7, 605.7, 886.9, 611.5, 884.7, 615.5, 882.4, 619.5, 880.5, 622.5, 878.6, 625.5, 875.4, 629.5, 872.2, 633.5, 871.6, 635.7, 870.9, 637.9, 864.7, 644.3, 858.5, 650.7, 851.5, 653.3, 844.5, 655.9, 836.0, 658.4, 827.5, 660.9, 813.5, 662.7, 799.5, 664.4, 779.5, 664.5, 759.5, 664.5, 546.3, 663.6, 333.1, 662.7, 308.9, 638.3, 284.6, 614.0, 261.5, 614.0, 238.4, 614.0, 237.2, 615.2, 236.0, 616.4, 236.0, 618.5, 236.0, 620.6, 237.2, 621.8, 238.4, 623.0, 259.4, 623.0, 280.4, 623.0, 305.0, 647.5, 329.6, 672.0, 572.6, 671.7, 815.5, 671.3, 822.1, 670.2, 828.8, 669.1, 837.1, 667.5, 845.5, 665.8, 851.0, 664.3, 856.5, 662.7, 860.0, 660.5, 863.5, 658.2, 866.5, 655.0, 869.5, 651.9, 873.4, 649.7, 877.2, 647.5, 882.9, 639.5, 888.7, 631.5, 891.7, 626.0, 894.7, 620.5, 895.3, 618.0, 895.9, 615.5, 897.2, 613.8, 898.5, 612.0, 906.0, 614.6, 913.5, 617.1, 922.5, 617.9, 931.5, 618.8, 940.8, 617.9, 950.2, 617.0, 958.6, 615.0, 967.0, 613.0, 976.7, 609.4, 986.5, 605.8, 999.0, 599.4, 1011.5, 593.1, 1022.6, 586.1, 1033.8, 579.0, 1042.1, 570.3, 1050.4, 561.5, 1056.3, 553.5, 1062.3, 545.5, 1066.6, 536.5, 1071.0, 527.5, 1072.7, 521.0, 1074.4, 514.5, 1074.4, 504.0, 1074.3, 493.5, 1071.7, 485.4, 1069.0, 477.2, 1064.2, 469.9, 1059.3, 462.5, 1053.8, 456.9, 1048.3, 451.3, 1042.4, 446.8, 1036.5, 442.3, 1029.4, 438.2, 1022.4, 434.0, 1013.6, 430.5, 1004.9, 426.9, 996.7, 425.0, 988.5, 423.0, 981.0, 422.6, 973.5, 422.1, 966.0, 423.0};
-        vector<float> m_rightInnerRail = {691.6, 497.5, 690.0, 499.1, 690.0, 500.4, 690.0, 501.6, 691.3, 503.2, 692.5, 504.7, 736.5, 528.0, 780.5, 551.3, 782.3, 553.1, 784.0, 555.0, 793.7, 560.6, 803.4, 566.3, 808.4, 568.2, 813.4, 570.1, 817.4, 572.5, 821.5, 574.8, 825.2, 575.9, 828.8, 577.1, 830.1, 578.7, 831.4, 580.2, 836.7, 582.5, 842.0, 584.9, 840.9, 587.7, 839.9, 590.5, 835.3, 596.5, 830.7, 602.5, 824.9, 608.2, 819.0, 613.8, 810.3, 618.5, 801.6, 623.2, 794.0, 624.7, 786.5, 626.2, 566.6, 626.7, 346.7, 627.2, 321.6, 602.1, 296.4, 577.0, 267.4, 577.0, 238.4, 577.0, 237.2, 578.2, 236.0, 579.4, 236.0, 581.5, 236.0, 583.6, 237.2, 584.8, 238.4, 586.0, 265.4, 586.0, 292.4, 586.0, 317.7, 611.2, 342.9, 636.3, 565.7, 635.7, 788.5, 635.0, 795.0, 634.0, 801.5, 633.0, 813.0, 627.3, 824.5, 621.7, 833.5, 612.6, 842.6, 603.5, 846.3, 597.4, 850.0, 591.2, 850.0, 589.8, 850.0, 588.4, 851.5, 586.4, 852.9, 584.5, 853.0, 583.0, 853.0, 581.5, 838.8, 574.0, 824.6, 566.5, 814.1, 560.7, 803.6, 554.9, 802.6, 553.6, 801.5, 552.3, 749.3, 524.6, 697.2, 496.9, 695.2, 496.4, 693.3, 495.8, 691.6, 497.5};
+        vector<float> m_leftInnerRail = {271.6, 50.5, 271.0, 52.2, 271.0, 54.5, 271.0, 56.9, 274.3, 57.4, 277.5, 58.0, 382.0, 58.9, 486.5, 59.9, 497.5, 61.5, 508.5, 63.1, 520.0, 65.6, 531.5, 68.2, 539.9, 70.6, 548.3, 73.1, 557.9, 76.6, 567.5, 80.2, 579.8, 86.1, 592.2, 92.0, 600.7, 97.1, 609.2, 102.3, 619.3, 109.8, 629.4, 117.3, 635.4, 123.4, 641.5, 129.5, 650.0, 138.5, 658.6, 147.5, 667.6, 158.0, 676.6, 168.5, 694.1, 189.5, 711.6, 210.5, 717.5, 218.0, 723.3, 225.5, 727.9, 230.5, 732.5, 235.5, 740.0, 242.3, 747.5, 249.2, 757.0, 255.6, 766.6, 261.9, 776.0, 266.4, 785.5, 270.8, 794.5, 273.8, 803.5, 276.8, 811.5, 278.4, 819.5, 280.0, 829.0, 281.0, 838.5, 282.0, 889.5, 282.0, 940.5, 282.0, 957.0, 280.6, 973.5, 279.2, 980.5, 277.6, 987.5, 276.0, 994.0, 273.8, 1000.5, 271.7, 1009.1, 267.4, 1017.7, 263.1, 1025.7, 257.1, 1033.7, 251.0, 1039.3, 245.0, 1044.9, 239.0, 1048.1, 234.4, 1051.2, 229.9, 1054.0, 223.7, 1056.8, 217.5, 1058.0, 211.2, 1059.3, 204.9, 1058.7, 195.7, 1058.2, 186.5, 1055.2, 178.3, 1052.2, 170.0, 1046.6, 161.5, 1041.0, 152.9, 1032.2, 143.8, 1023.5, 134.7, 1015.5, 128.7, 1007.5, 122.7, 995.5, 116.9, 983.5, 111.1, 974.0, 108.4, 964.5, 105.7, 934.8, 105.3, 905.0, 104.8, 905.0, 108.9, 905.0, 112.9, 934.3, 113.2, 963.5, 113.6, 969.5, 115.3, 975.5, 117.0, 984.9, 120.7, 994.3, 124.3, 996.1, 126.1, 998.0, 128.0, 999.3, 128.0, 1000.7, 128.0, 1008.1, 133.1, 1015.5, 138.3, 1025.0, 147.9, 1034.5, 157.6, 1039.4, 164.9, 1044.3, 172.3, 1047.3, 179.9, 1050.3, 187.5, 1050.8, 196.0, 1051.2, 204.5, 1050.1, 210.3, 1048.9, 216.0, 1045.5, 222.8, 1042.1, 229.5, 1036.1, 236.6, 1030.1, 243.8, 1022.0, 249.9, 1013.9, 256.0, 1012.4, 256.0, 1011.0, 256.0, 1002.2, 261.8, 993.5, 266.0, 983.8, 268.5, 974.0, 270.9, 963.8, 271.9, 953.5, 272.8, 905.0, 273.1, 856.5, 273.5, 842.5, 273.4, 828.5, 273.3, 818.5, 271.6, 808.5, 269.8, 796.9, 266.0, 785.3, 262.2, 777.3, 258.2, 769.4, 254.2, 760.2, 248.0, 751.0, 241.9, 742.3, 233.7, 733.7, 225.5, 726.1, 216.0, 718.6, 206.5, 704.1, 189.0, 689.6, 171.5, 672.1, 151.0, 654.6, 130.5, 645.6, 121.7, 636.5, 112.8, 625.5, 104.5, 614.5, 96.2, 605.5, 90.7, 596.5, 85.3, 588.3, 81.2, 580.1, 77.0, 571.3, 73.4, 562.5, 69.7, 552.6, 66.3, 542.7, 63.0, 531.0, 60.0, 519.2, 57.0, 506.9, 55.1, 494.5, 53.1, 482.0, 52.1, 469.5, 51.1, 372.1, 50.5, 274.8, 49.8, 273.5, 49.4, 272.3, 48.9, 271.6, 50.5};
+        vector<float> m_leftOuterRail = {831.0, 61.9, 831.0, 66.0, 847.3, 66.1, 863.5, 66.2, 914.5, 66.9, 965.5, 67.7, 976.3, 69.9, 987.1, 72.1, 996.2, 75.1, 1005.3, 78.0, 1013.8, 82.0, 1022.4, 86.1, 1032.4, 92.7, 1042.5, 99.4, 1053.0, 109.9, 1063.6, 120.5, 1069.2, 129.0, 1074.7, 137.5, 1081.3, 151.5, 1087.8, 165.5, 1089.4, 171.0, 1091.0, 176.5, 1092.0, 186.0, 1093.1, 195.5, 1092.5, 202.5, 1091.9, 209.5, 1090.3, 217.5, 1088.8, 225.5, 1085.8, 234.0, 1082.8, 242.5, 1079.7, 248.5, 1076.7, 254.5, 1072.7, 260.5, 1068.6, 266.5, 1061.6, 273.9, 1054.5, 281.2, 1048.8, 285.7, 1043.0, 290.1, 1036.8, 293.6, 1030.5, 297.2, 1022.3, 300.5, 1014.0, 303.9, 1003.8, 306.4, 993.5, 308.9, 983.7, 310.1, 973.9, 311.3, 898.2, 310.7, 822.5, 310.2, 814.5, 308.7, 806.5, 307.1, 799.6, 305.5, 792.7, 303.9, 782.1, 300.4, 771.5, 296.9, 758.5, 290.5, 745.5, 284.1, 739.5, 279.6, 733.6, 275.0, 724.7, 267.3, 715.8, 259.5, 705.1, 248.0, 694.4, 236.5, 685.9, 226.5, 677.3, 216.5, 653.8, 187.0, 630.3, 157.5, 623.3, 149.8, 616.4, 142.0, 612.4, 138.7, 608.5, 135.3, 593.0, 125.0, 577.5, 114.7, 563.5, 107.9, 549.5, 101.2, 538.5, 97.6, 527.5, 94.0, 518.5, 91.9, 509.5, 89.8, 495.0, 87.7, 480.5, 85.6, 366.7, 85.3, 253.0, 85.0, 253.0, 89.0, 253.0, 93.0, 366.7, 93.3, 480.5, 93.6, 494.6, 95.7, 508.8, 97.9, 517.6, 100.0, 526.5, 102.0, 536.0, 105.1, 545.5, 108.2, 558.7, 114.5, 571.9, 120.8, 580.7, 126.5, 589.5, 132.2, 590.3, 133.6, 591.1, 135.0, 592.2, 135.0, 593.3, 135.0, 598.9, 139.7, 604.5, 144.3, 609.8, 149.4, 615.2, 154.5, 616.6, 157.3, 618.1, 160.0, 633.9, 179.8, 649.7, 199.5, 664.1, 217.1, 678.5, 234.7, 684.9, 242.9, 691.3, 251.0, 702.5, 261.8, 713.7, 272.5, 721.6, 278.2, 729.6, 283.9, 739.1, 289.6, 748.5, 295.3, 758.0, 299.5, 767.6, 303.8, 776.5, 307.0, 785.5, 310.1, 795.0, 312.5, 804.5, 314.9, 813.4, 316.5, 822.3, 318.0, 881.9, 319.0, 941.5, 319.9, 964.0, 319.0, 986.5, 318.1, 995.0, 316.6, 1003.5, 315.1, 1012.5, 312.5, 1021.5, 309.9, 1033.5, 304.0, 1045.5, 298.1, 1054.5, 291.3, 1063.5, 284.4, 1070.6, 276.2, 1077.7, 267.9, 1082.8, 259.3, 1088.0, 250.7, 1091.9, 240.6, 1095.9, 230.5, 1098.1, 220.0, 1100.3, 209.5, 1100.3, 196.0, 1100.3, 182.5, 1098.7, 175.5, 1097.1, 168.5, 1095.2, 163.0, 1093.2, 157.5, 1086.1, 143.0, 1079.0, 128.5, 1072.6, 120.0, 1066.2, 111.5, 1056.4, 102.0, 1046.5, 92.4, 1037.1, 86.2, 1027.7, 79.9, 1018.6, 75.5, 1009.5, 71.2, 1000.6, 68.1, 991.7, 65.0, 979.6, 62.5, 967.5, 60.1, 956.5, 59.6, 945.5, 59.0, 888.3, 58.4, 831.0, 57.9, 831.0, 61.9};
+        vector<float> m_rightOuterRail = {1063.5, 595.1, 1057.7, 603.1, 1047.0, 613.4, 1036.3, 623.7, 1024.9, 631.3, 1013.5, 638.9, 1002.9, 643.9, 992.4, 649.0, 980.4, 652.9, 968.5, 656.8, 957.5, 658.9, 946.5, 661.0, 937.5, 662.0, 928.5, 663.0, 667.8, 663.0, 407.2, 663.0, 372.8, 639.2, 338.5, 615.5, 309.9, 615.2, 281.3, 614.9, 280.6, 617.2, 280.0, 619.5, 280.0, 621.2, 280.0, 623.0, 307.5, 623.0, 335.1, 623.0, 369.8, 647.0, 404.5, 671.0, 667.0, 671.0, 929.5, 671.0, 938.5, 670.0, 947.5, 669.0, 958.5, 666.9, 969.5, 664.8, 983.0, 660.4, 996.5, 656.0, 1007.5, 650.6, 1018.5, 645.2, 1027.5, 639.3, 1036.5, 633.3, 1043.0, 628.0, 1049.5, 622.6, 1056.9, 615.1, 1064.2, 607.5, 1070.1, 599.7, 1076.0, 591.9, 1072.7, 588.8, 1069.4, 587.2, 1063.5, 595.1};
+        vector<float> m_rightInnerRail = {660.8, 433.7, 655.4, 437.5, 627.7, 457.4, 600.0, 477.3, 599.5, 479.1, 598.9, 480.9, 600.0, 482.9, 601.0, 484.9, 633.1, 529.2, 665.2, 573.5, 666.8, 574.7, 668.4, 576.0, 669.7, 576.0, 671.0, 576.0, 681.8, 568.6, 692.7, 561.2, 695.5, 559.7, 698.4, 558.2, 720.7, 579.9, 742.9, 601.5, 745.5, 602.4, 748.0, 603.4, 748.0, 608.4, 748.0, 613.5, 744.9, 618.8, 741.9, 624.1, 739.4, 625.0, 736.9, 626.0, 574.2, 626.0, 411.5, 626.0, 378.0, 602.8, 344.5, 579.6, 336.5, 578.9, 328.5, 578.2, 287.8, 578.1, 247.0, 578.0, 247.0, 581.9, 247.0, 585.8, 293.8, 586.2, 340.5, 586.5, 374.8, 610.3, 409.1, 634.0, 574.5, 634.0, 739.9, 634.0, 743.7, 631.9, 747.5, 629.8, 748.8, 628.7, 750.2, 627.6, 752.6, 622.8, 755.0, 618.1, 755.0, 611.9, 755.0, 605.7, 752.8, 599.8, 750.7, 593.9, 730.1, 574.1, 709.5, 554.3, 704.2, 549.6, 698.9, 545.0, 696.7, 545.0, 694.5, 545.0, 682.5, 554.9, 670.5, 564.8, 669.9, 564.1, 669.2, 563.5, 640.1, 523.2, 611.0, 483.0, 610.7, 482.1, 610.5, 481.2, 638.5, 461.0, 666.5, 440.8, 667.6, 440.4, 668.6, 439.9, 713.5, 462.0, 758.4, 484.1, 752.5, 498.0, 745.9, 511.1, 738.9, 504.8, 731.8, 498.5, 726.8, 494.2, 721.8, 490.0, 720.0, 490.0, 718.1, 490.0, 716.6, 491.6, 715.0, 493.1, 715.0, 494.9, 715.0, 496.7, 740.8, 519.5, 766.5, 542.4, 795.1, 570.4, 823.7, 598.5, 829.6, 603.1, 835.5, 607.7, 841.6, 611.8, 847.6, 615.9, 856.1, 620.4, 864.5, 624.9, 875.5, 628.7, 886.5, 632.5, 909.9, 632.8, 933.4, 633.1, 939.9, 632.0, 946.5, 630.9, 956.6, 627.5, 966.8, 624.1, 976.1, 619.4, 985.5, 614.7, 995.9, 607.7, 1006.3, 600.6, 1017.8, 589.6, 1029.3, 578.5, 1034.2, 572.6, 1039.1, 566.8, 1035.8, 564.5, 1032.5, 562.2, 1029.6, 565.9, 1026.7, 569.5, 1015.6, 580.6, 1004.5, 591.6, 997.0, 597.2, 989.4, 602.8, 983.0, 606.9, 976.5, 611.0, 972.5, 612.9, 968.5, 614.9, 958.5, 618.6, 948.5, 622.3, 942.3, 624.6, 936.1, 626.9, 935.5, 626.0, 934.9, 625.0, 913.1, 625.0, 891.2, 625.0, 882.4, 622.4, 873.5, 619.9, 864.1, 615.4, 854.7, 611.0, 846.4, 605.5, 838.2, 600.0, 827.3, 589.3, 816.4, 578.5, 813.0, 574.5, 809.5, 570.5, 803.8, 566.5, 798.2, 562.6, 797.7, 560.0, 797.1, 557.5, 775.1, 537.6, 753.0, 517.7, 761.5, 499.9, 770.1, 482.8, 769.5, 481.1, 769.0, 479.3, 718.7, 454.6, 668.5, 429.9, 667.4, 430.0, 666.3, 430.0, 660.8, 433.7};
         vector<vector<float>> m_layer2ShapeData = {
             m_leftInnerRail, m_leftOuterRail, m_rightOuterRail, m_rightInnerRail
         };

diff --git a/games/pinball/source/ramp.h b/games/pinball/source/ramp.h
@@ -28,15 +28,18 @@ class Ramp {
         b2Fixture* m_fixture;
         int m_layerID;
         vector<float> m_launchTubeExitSensor = {1080.3, 555.2, 1078.3, 557.5, 1074.7, 563.0, 1071.1, 568.5, 1064.1, 575.6, 1057.0, 582.7, 1057.0, 585.2, 1057.0, 587.6, 1058.2, 588.8, 1059.4, 590.0, 1061.7, 590.0, 1064.0, 590.0, 1071.4, 582.6, 1078.8, 575.1, 1083.0, 569.0, 1087.1, 562.9, 1091.8, 565.6, 1096.5, 568.3, 1101.0, 570.8, 1105.5, 573.3, 1107.5, 574.4, 1109.5, 575.6, 1114.0, 578.4, 1118.5, 581.2, 1121.2, 583.1, 1123.9, 585.0, 1125.8, 585.0, 1127.6, 585.0, 1128.8, 583.8, 1130.0, 582.6, 1130.0, 580.4, 1130.0, 578.2, 1125.6, 574.6, 1121.1, 571.0, 1110.8, 564.8, 1100.5, 558.7, 1095.2, 555.9, 1090.0, 553.0, 1086.2, 553.0, 1082.3, 553.0, 1080.3, 555.2};
-        vector<float> m_ramp1 = {723.2, 151.7, 721.3, 154.5, 720.6, 156.5, 719.9, 158.5, 718.5, 166.5, 717.1, 174.5, 716.4, 187.8, 715.7, 201.1, 717.9, 203.4, 720.2, 205.8, 723.7, 206.5, 727.2, 207.1, 730.8, 209.0, 734.5, 210.9, 741.0, 212.1, 747.5, 213.2, 754.9, 214.6, 762.2, 216.0, 764.9, 216.0, 767.6, 216.0, 770.6, 213.2, 773.7, 210.5, 777.8, 201.5, 781.8, 192.5, 783.4, 186.4, 785.0, 180.2, 785.0, 176.6, 785.0, 173.0, 782.5, 170.9, 781.5, 168.8, 777.5, 166.8, 773.5, 164.7, 771.8, 163.9, 770.0, 163.0, 768.5, 163.0, 767.0, 163.0, 765.2, 162.1, 763.5, 161.1, 756.5, 158.5, 749.5, 155.9, 747.5, 154.8, 745.5, 153.6, 741.0, 151.3, 736.5, 149.1, 730.8, 149.0, 725.1, 149.0, 723.2, 151.7};
-        vector<float> m_ramp1Down = {688.6, 139.8, 688.2, 140.5, 687.6, 147.5, 687.0, 154.5, 686.0, 177.4, 685.0, 200.3, 686.7, 202.2, 688.3, 204.0, 691.2, 204.0, 694.0, 204.0, 698.3, 202.1, 702.5, 200.1, 705.0, 199.8, 707.5, 199.5, 708.2, 193.5, 708.8, 187.5, 709.9, 184.7, 711.0, 181.9, 712.0, 170.4, 713.0, 158.9, 714.5, 156.0, 716.0, 153.1, 716.0, 150.7, 716.0, 148.2, 714.8, 147.2, 713.5, 146.2, 702.9, 142.6, 692.2, 139.0, 690.7, 139.0, 689.1, 139.0, 688.6, 139.8};
-        vector<float> m_ramp2 = {737.0, 464.7, 735.5, 465.2, 732.8, 467.8, 730.0, 470.4, 730.0, 471.6, 730.0, 472.8, 728.4, 474.1, 726.8, 475.4, 725.8, 477.5, 724.9, 479.5, 722.0, 484.5, 719.1, 489.5, 716.4, 494.8, 713.8, 500.2, 714.3, 504.2, 714.8, 508.2, 717.2, 510.7, 719.5, 513.2, 723.0, 515.1, 726.5, 516.9, 733.5, 520.6, 740.5, 524.2, 748.5, 528.5, 756.5, 532.8, 763.5, 536.5, 770.5, 540.1, 777.5, 544.0, 784.5, 547.8, 788.0, 549.5, 791.4, 551.2, 795.3, 550.7, 799.3, 550.2, 803.0, 546.5, 806.8, 542.8, 812.6, 530.1, 818.4, 517.5, 818.5, 511.3, 818.5, 505.2, 816.0, 502.5, 813.5, 499.8, 806.5, 496.3, 799.5, 492.9, 791.5, 488.6, 783.5, 484.3, 777.5, 481.2, 771.5, 478.0, 758.1, 471.0, 744.7, 464.0, 741.6, 464.1, 738.5, 464.2, 737.0, 464.7};
-        vector<float> m_ramp2Down = {708.0, 450.7, 706.5, 451.3, 704.1, 453.4, 701.8, 455.5, 699.3, 460.5, 696.9, 465.5, 693.4, 471.5, 690.0, 477.5, 687.9, 481.9, 685.8, 486.3, 686.3, 490.3, 686.9, 494.3, 689.9, 497.4, 693.0, 500.5, 698.4, 500.5, 703.8, 500.5, 706.0, 498.5, 708.3, 496.5, 710.8, 492.5, 713.4, 488.5, 716.1, 483.5, 718.9, 478.5, 721.6, 473.0, 724.4, 467.5, 724.5, 462.3, 724.5, 457.0, 721.4, 453.9, 718.2, 450.8, 713.9, 450.4, 709.5, 450.1, 708.0, 450.7};
-        vector<float> m_hole1 = {237.6, 49.6, 236.0, 51.1, 236.0, 73.0, 236.0, 94.9, 237.6, 96.4, 239.1, 98.0, 240.5, 98.0, 241.9, 98.0, 243.4, 96.4, 245.0, 94.9, 245.0, 73.0, 245.0, 51.1, 243.4, 49.6, 241.9, 48.0, 240.5, 48.0, 239.1, 48.0, 237.6, 49.6};
-        vector<float> m_hole2 = {237.2, 578.2, 236.0, 579.4, 236.0, 600.0, 236.0, 620.6, 237.2, 621.8, 238.4, 623.0, 240.5, 623.0, 242.6, 623.0, 243.8, 621.8, 245.0, 620.6, 245.0, 600.0, 245.0, 579.4, 243.8, 578.2, 242.6, 577.0, 240.5, 577.0, 238.4, 577.0, 237.2, 578.2};
+        vector<float> m_ramp1 = {921.7, 61.6, 921.2, 62.5, 920.5, 85.1, 919.7, 107.7, 920.8, 108.4, 921.8, 109.0, 945.7, 109.5, 969.6, 110.0, 974.1, 111.4, 978.5, 112.8, 985.9, 115.9, 993.2, 119.0, 1000.2, 122.7, 1007.2, 126.4, 1013.9, 132.5, 1020.5, 138.7, 1025.0, 142.6, 1029.5, 146.4, 1035.8, 152.4, 1042.1, 158.5, 1043.6, 161.2, 1045.1, 164.0, 1046.9, 164.0, 1048.7, 164.0, 1065.3, 151.5, 1082.0, 139.0, 1082.0, 137.8, 1082.0, 136.6, 1071.8, 123.1, 1061.5, 109.5, 1053.3, 100.9, 1045.1, 92.4, 1021.3, 80.3, 997.5, 68.2, 988.0, 66.1, 978.5, 64.1, 970.5, 63.1, 962.5, 62.1, 942.4, 61.4, 922.3, 60.8, 921.7, 61.6};
+        vector<float> m_ramp1Down = {839.7, 60.6, 839.1, 61.6, 838.0, 84.4, 836.8, 107.2, 837.7, 108.1, 838.6, 109.0, 876.8, 108.8, 915.1, 108.5, 915.6, 85.3, 916.1, 62.2, 915.0, 61.5, 914.0, 60.9, 877.1, 60.3, 840.3, 59.7, 839.7, 60.6};
+        vector<float> m_ramp2 = {986.7, 604.5, 972.8, 613.8, 962.2, 618.0, 951.5, 622.3, 944.7, 625.7, 938.0, 629.0, 927.2, 628.8, 916.5, 628.5, 916.2, 647.8, 916.0, 667.0, 917.4, 667.6, 918.9, 668.2, 933.7, 667.1, 948.5, 666.0, 962.5, 664.4, 976.5, 662.9, 996.1, 652.5, 1015.7, 642.2, 1024.3, 637.0, 1033.0, 631.8, 1030.3, 627.1, 1027.6, 623.5, 1018.7, 613.5, 1009.7, 603.5, 1005.2, 599.2, 1000.6, 595.0, 986.7, 604.5};
+        vector<float> m_ramp2Down = {1026.5, 573.9, 1021.7, 580.7, 1014.7, 585.6, 1007.8, 590.5, 1006.7, 591.2, 1005.7, 591.8, 1017.1, 604.2, 1028.5, 616.5, 1032.4, 621.5, 1036.4, 626.5, 1037.1, 627.4, 1037.9, 628.3, 1042.2, 625.7, 1046.5, 623.2, 1057.3, 611.7, 1068.0, 600.2, 1068.0, 598.8, 1068.0, 597.5, 1059.2, 588.9, 1050.5, 580.3, 1045.1, 577.4, 1039.8, 574.6, 1035.5, 570.8, 1031.3, 567.1, 1026.5, 573.};
+        vector<float> m_hole1 = {203.0, 72.0, 203.0, 91.0, 230.0, 91.0, 257.0, 91.0, 257.0, 72.0, 257.0, 53.0, 230.0, 53.0, 203.0, 53.0, 203.0, 72.0};
+        vector<float> m_hole2 = {198.6, 580.8, 198.2, 581.5, 197.8, 601.0, 197.5, 620.5, 227.3, 620.8, 257.0, 621.0, 257.0, 600.5, 257.0, 580.0, 228.1, 580.0, 199.1, 580.0, 198.6, 580.8};
+        vector<float> m_ramp3 = {734.0, 543.6, 714.0, 562.2, 714.0, 565.6, 714.0, 569.0, 724.8, 579.5, 735.5, 590.0, 738.8, 590.0, 742.1, 590.0, 745.0, 588.5, 748.0, 586.9, 748.0, 584.6, 748.0, 582.2, 749.6, 580.9, 751.2, 579.6, 753.0, 578.5, 754.9, 577.5, 764.5, 569.5, 774.2, 561.5, 777.5, 559.0, 780.8, 556.5, 782.5, 553.1, 784.1, 549.7, 779.3, 544.6, 774.5, 539.5, 767.5, 532.2, 760.6, 525.0, 757.3, 525.0, 754.0, 525.0, 734.0, 543.6};
+        vector<float> m_ramp3Down = {708.5, 497.6, 702.5, 503.2, 695.5, 508.7, 688.5, 514.3, 684.8, 517.9, 681.0, 521.4, 681.0, 524.3, 681.0, 527.1, 694.6, 541.8, 708.3, 556.5, 711.5, 556.5, 714.8, 556.5, 731.9, 540.2, 749.0, 523.8, 749.0, 520.5, 749.0, 517.2, 735.6, 504.6, 722.2, 492.0, 718.4, 492.0, 714.5, 492.1, 708.5, 497.6};
+        vector<float> m_ramp3up2 = {792.0, 564.7, 789.5, 565.2, 785.0, 569.4, 780.5, 573.7, 775.0, 577.7, 769.5, 581.7, 764.5, 586.8, 759.5, 591.9, 757.9, 592.0, 756.2, 592.0, 752.5, 596.1, 748.8, 600.3, 749.4, 607.4, 750.1, 614.5, 751.8, 616.2, 753.5, 617.9, 765.0, 618.5, 776.5, 619.2, 791.0, 616.5, 805.5, 613.9, 811.5, 610.6, 817.5, 607.4, 820.0, 605.9, 822.5, 604.5, 824.8, 602.6, 827.0, 600.7, 827.0, 597.6, 827.0, 594.5, 812.4, 579.2, 797.8, 564.0, 796.2, 564.1, 794.5, 564.3, 792.0, 564.7};
         // Access this vector by index of rampID to get the 2 collisions shapes for that ramp
         vector<vector<float>> m_rampShapes = {
-            m_launchTubeExitSensor, m_ramp1, m_ramp1Down, m_hole1, m_ramp2, m_ramp2Down, m_hole2
+            m_launchTubeExitSensor, m_ramp1, m_ramp1Down, m_hole1, m_ramp2, m_ramp2Down, m_hole2, m_ramp3, m_ramp3Down, m_ramp3up2
         };
 };
 

diff --git a/games/pinball/source/table.cpp b/games/pinball/source/table.cpp
@@ -37,26 +37,35 @@ Table::Table(C2DRenderer* renderer, b2World& world) :
     Ramp hole1(renderer, world, 3, 1);
     m_ramps.push_back(hole1);
 
-    Ramp hole2(renderer, world, 6, 1);
-    m_ramps.push_back(hole2);
-
     Ramp rightRamp(renderer, world, 4, 2);
     m_ramps.push_back(rightRamp);
 
     Ramp rightRampDown(renderer, world, 5, 1);
     m_ramps.push_back(rightRampDown);
+    
+    Ramp hole2(renderer, world, 6, 1);
+    m_ramps.push_back(hole2);
 
-    Bumper* bumper1 = new Bumper(renderer, world, 1, 9, 1.3);
+    Ramp ramp3(renderer, world, 7, 2);
+    m_ramps.push_back(ramp3);
+
+    Ramp ramp3Down(renderer, world, 8, 1);
+    m_ramps.push_back(ramp3Down);
+
+    Ramp ramp3up2(renderer, world, 9, 2);
+    m_ramps.push_back(ramp3up2);
+
+    Bumper* bumper1 = new Bumper(renderer, world, 1, 8.6, 2.1);
     m_bumpers.push_back(bumper1);
 
-    Bumper* bumper2 = new Bumper(renderer, world, 1, 10, 2);
+    Bumper* bumper2 = new Bumper(renderer, world, 1, 9.9, 2.1);
     m_bumpers.push_back(bumper2);
 
-    Bumper* bumper3 = new Bumper(renderer, world, 1, 9, 2.7);
+    Bumper* bumper3 = new Bumper(renderer, world, 1, 9.25, 3.0);
     m_bumpers.push_back(bumper3);
 
-    Bumper* bumper4 = new Bumper(renderer, world, 2, 9.7, 5.2);
-    m_bumpers.push_back(bumper4);
+    //Bumper* bumper4 = new Bumper(renderer, world, 2, 8.4, 6.6);
+    //m_bumpers.push_back(bumper4);
 
     // Minor TODO: can these be non pointer type?
     m_leftKicker = new Kicker(renderer, world, false);

diff --git a/games/pinball/source/bumper.cpp b/games/pinball/source/bumper.cpp
@@ -13,7 +13,7 @@ Bumper::Bumper(C2DRenderer* renderer, b2World& world, int layerID, float x, floa
     circleFixtureDef.shape = &circle;
     circleFixtureDef.density = 1.0f;
     circleFixtureDef.friction = 0.3f;
-    circleFixtureDef.restitution = 0.9;
+    circleFixtureDef.restitution = 0.6;
     circleFixtureDef.filter.maskBits = 1 << layerID;
     circleFixtureDef.filter.categoryBits = 1 << layerID;
     m_fixture = body->CreateFixture(&circleFixtureDef);

diff --git a/games/pinball/source/kicker.cpp b/games/pinball/source/kicker.cpp
@@ -63,7 +63,7 @@ void Kicker::update() {
 #endif
 
     if (m_hitFrameCurrent < m_hitFrames) {
-        m_joint->SetMotorSpeed(10.0f);
+        m_joint->SetMotorSpeed(15.0f);
         m_hitFrameCurrent++;
     }
     else
